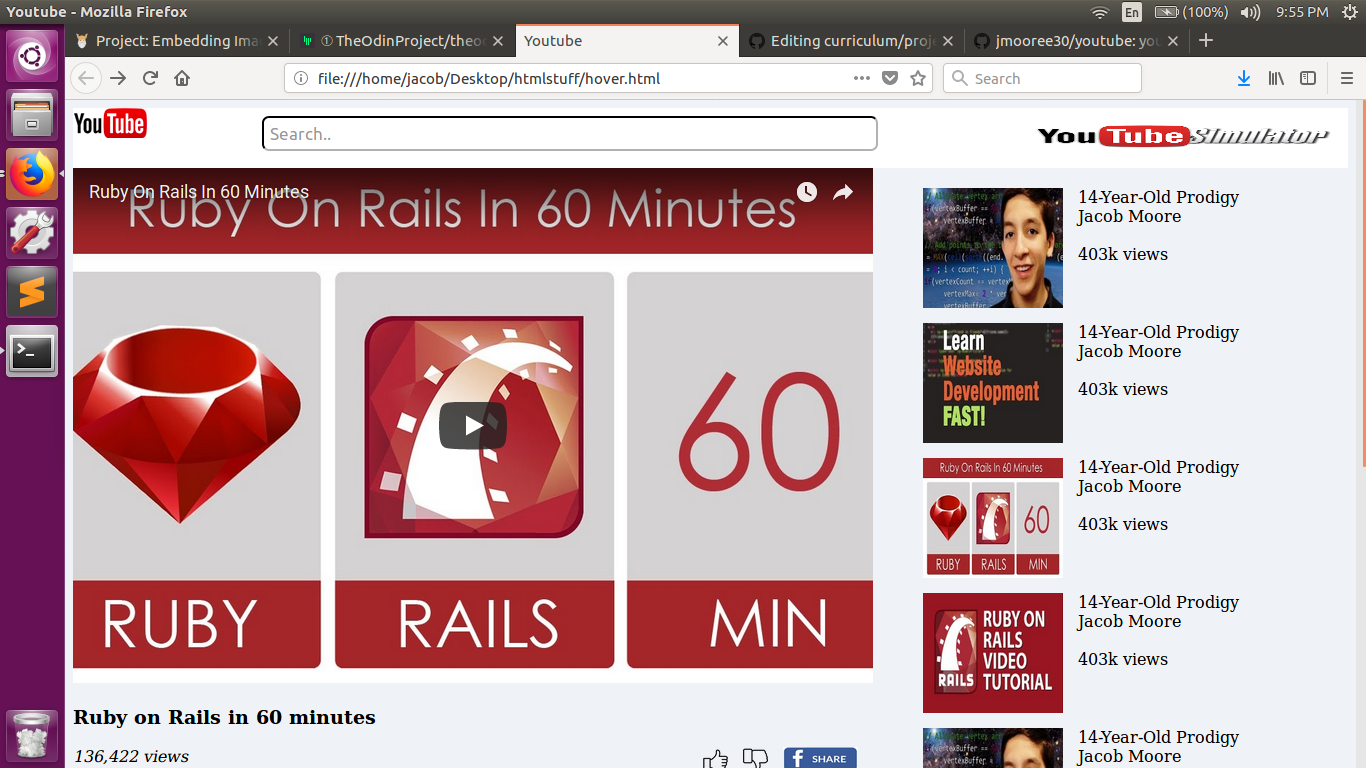
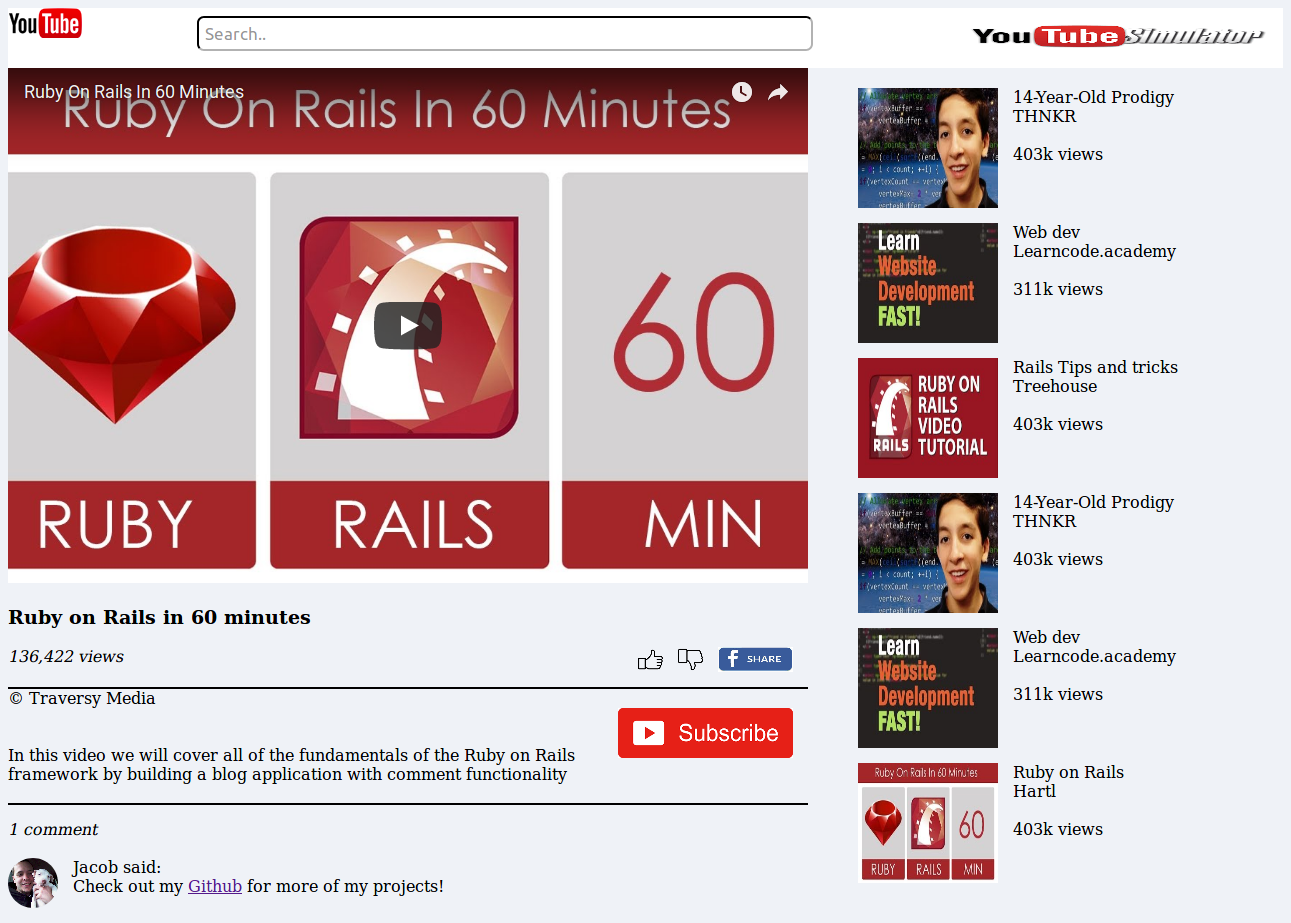
typo

diff --git a/index.html b/index.html
@@ -39,43 +39,34 @@
 		<div class="sidebar">
 			<img src="d.jpg" alt="rails" height='120px' width='140px'>
 			<span>
-				<p>14-Year-Old Prodigy<br>Jacob Moore<br><br>403k views</p>
+				<p>14-Year-Old Prodigy<br>THNKR<br><br>403k views</p>
 			</span>
 
 			<img src="c.jpg" alt="rails" height='120px' width='140px'>
 			<span>
-				<p>14-Year-Old Prodigy<br>Jacob Moore<br><br>403k views</p>
-			</span>
-
-			<img src="b.jpg" alt="rails" height='120px' width='140px'>
-			<span>
-				<p>14-Year-Old Prodigy<br>Jacob Moore<br><br>403k views</p>
+				<p>Web dev<br>Learncode.academy<br><br>311k views</p>
 			</span>
 
 			<img src="a.jpg" alt="rails" height='120px' width='140px'>
 			<span>
-				<p>14-Year-Old Prodigy<br>Jacob Moore<br><br>403k views</p>
+				<p>Rails Tips and tricks<br>Treehouse<br><br>875k views</p>
 			</span>
 
 			<img src="d.jpg" alt="rails" height='120px' width='140px'>
 			<span>
-				<p>14-Year-Old Prodigy<br>Jacob Moore<br><br>403k views</p>
+				<p>14-Year-Old Prodigy<br>THNKR<br><br>403k views</p>
 			</span>
 
 			<img src="c.jpg" alt="rails" height='120px' width='140px'>
 			<span>
-				<p>14-Year-Old Prodigy<br>Jacob Moore<br><br>403k views</p>
+				<p>Web dev<br>Learncode.academy<br><br>311k views</p>
 			</span>
 
 			<img src="b.jpg" alt="rails" height='120px' width='140px'>
 			<span>
-				<p>14-Year-Old Prodigy<br>Jacob Moore<br><br>403k views</p>
+				<p>Ruby on Rails<br>Hartl<br><br>403k views</p>
 			</span>
-
-			<img src="a.jpg" alt="rails" height='120px' width='140px'>
-			<span>
-				<p>14-Year-Old Prodigy<br>Jacob Moore<br><br>403k views</p>
-			</span>
+	
 		</div>
 	</body>
 	</html>
